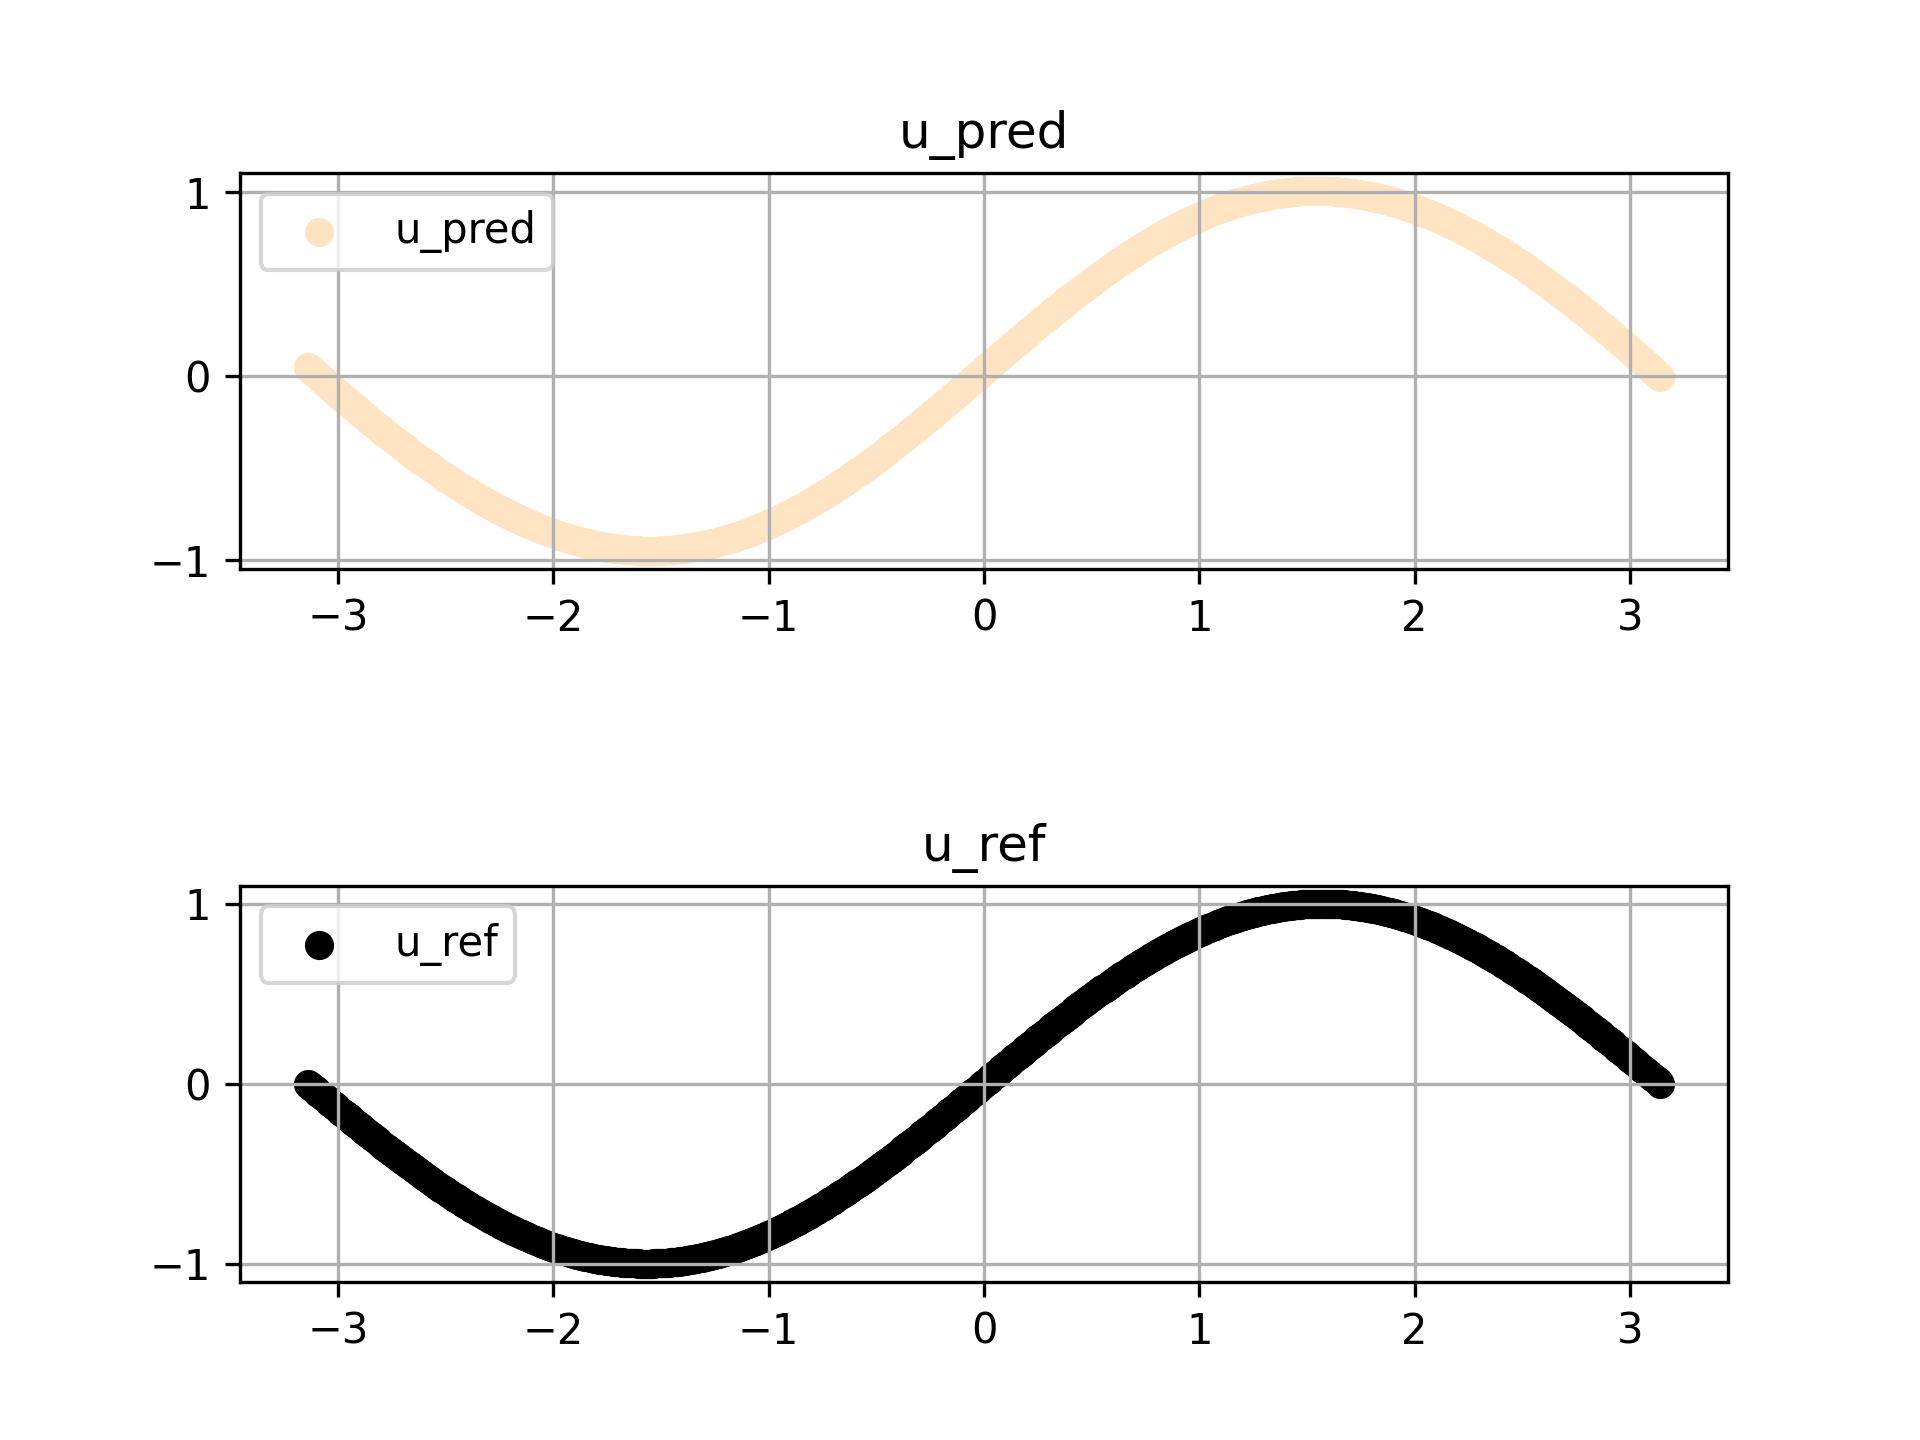
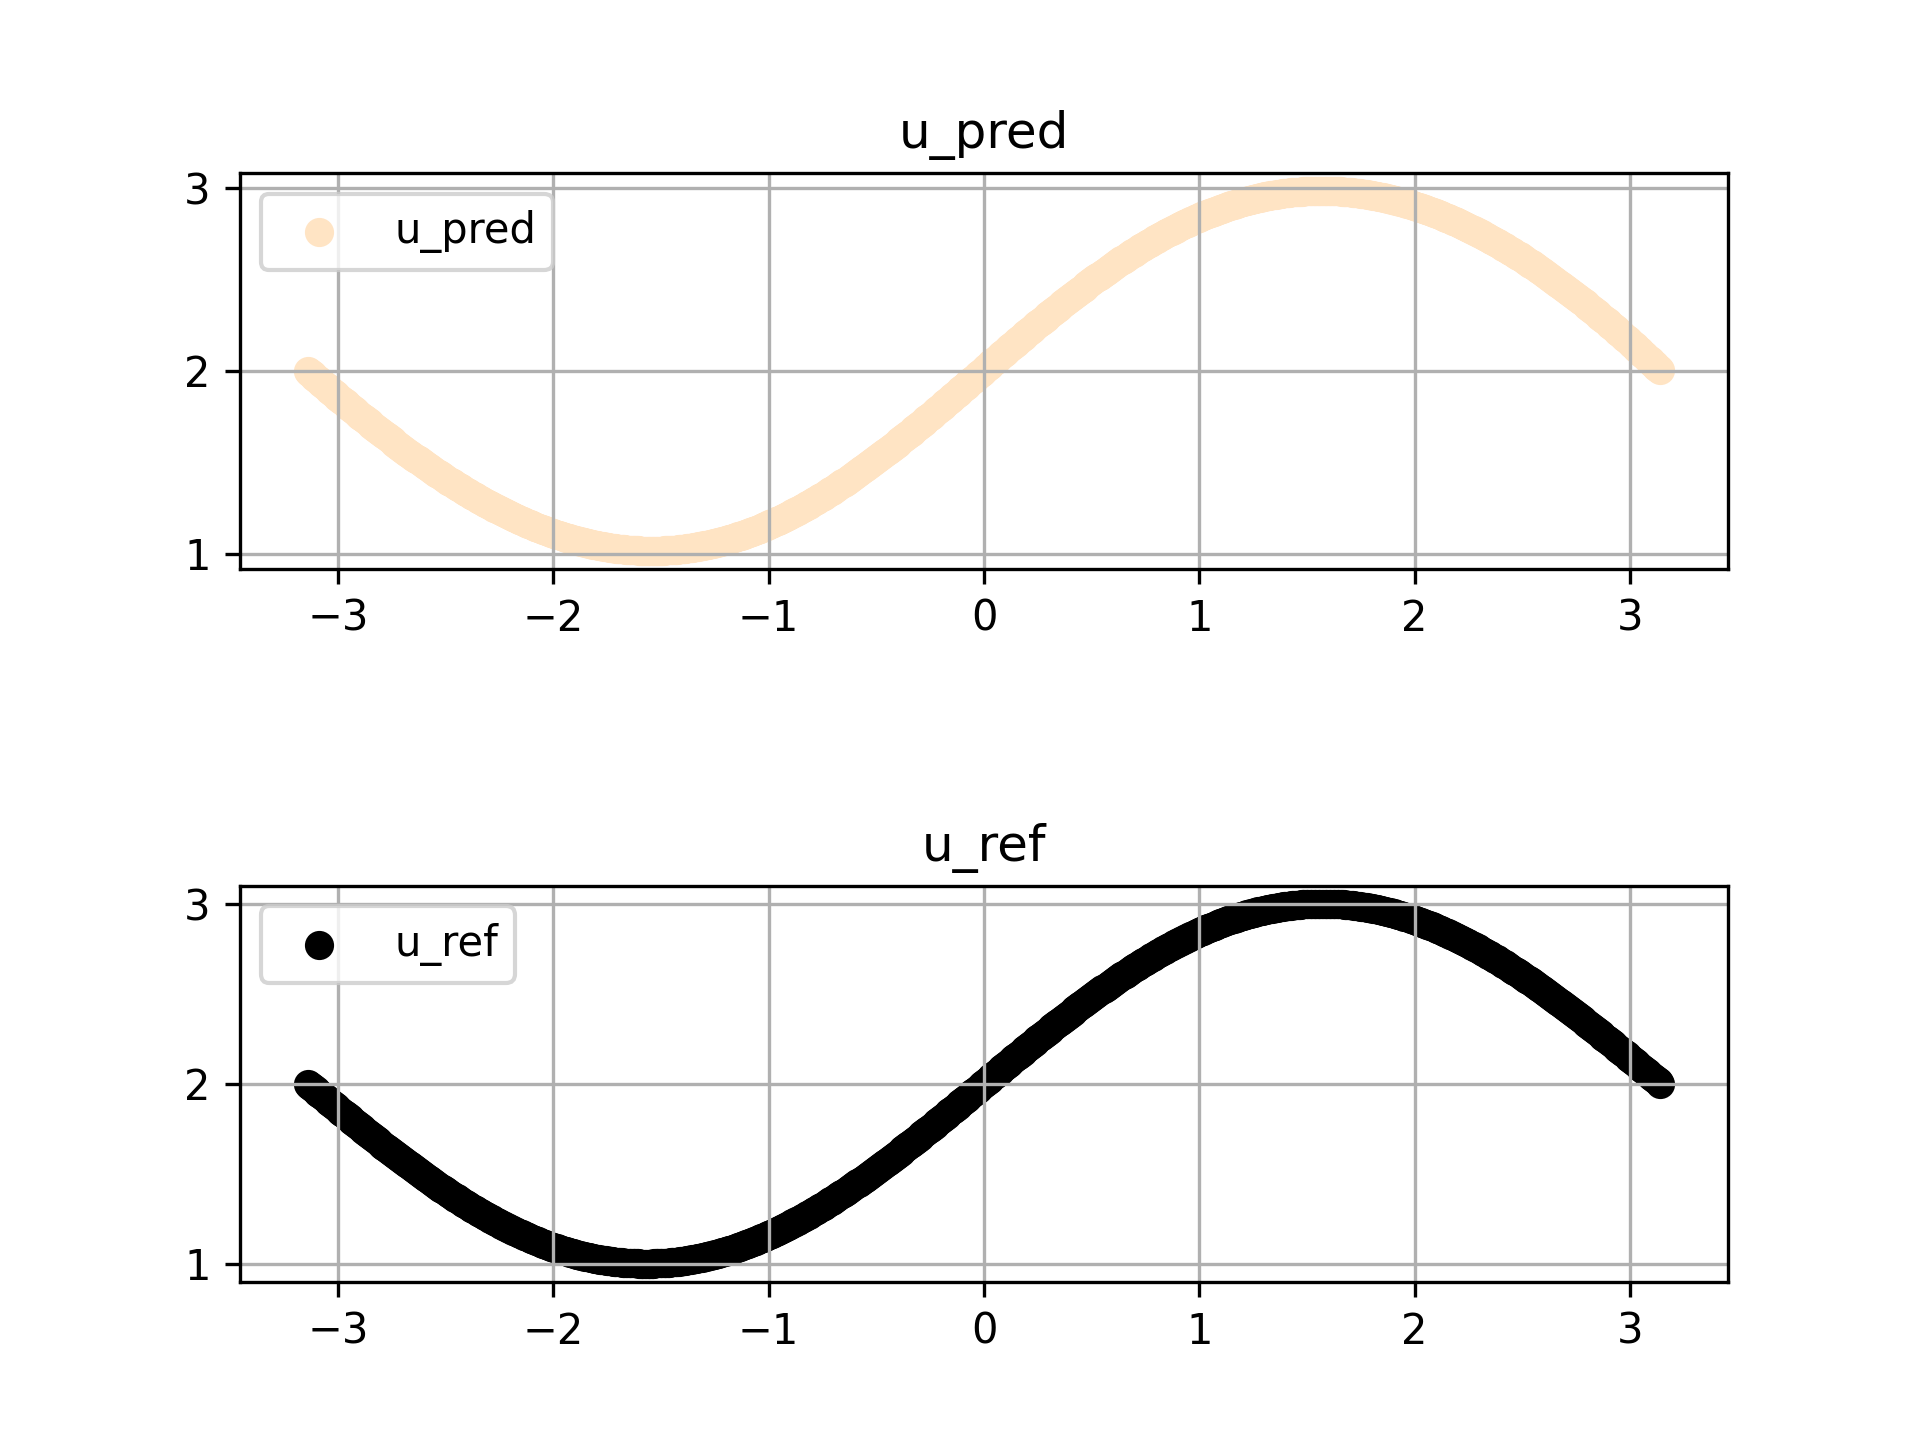
refine quickstart(test=document_fix)

diff --git a/examples/aneurysm/aneurysm.py b/examples/aneurysm/aneurysm.py
@@ -170,6 +170,8 @@ if __name__ == "__main__":
 
     # set training hyper-parameters
     EPOCHS = 1500 if not args.epochs else args.epochs
+
+    # set optimizer
     lr_scheduler = ppsci.optimizer.lr_scheduler.ExponentialDecay(
         EPOCHS,
         ITERS_PER_EPOCH,
@@ -178,8 +180,6 @@ if __name__ == "__main__":
         EPOCHS * ITERS_PER_EPOCH // 100,
         by_epoch=False,
     )()
-
-    # set optimizer
     optimizer = ppsci.optimizer.Adam(lr_scheduler)(model)
 
     # set validator

diff --git a/docs/zh/quickstart.md b/docs/zh/quickstart.md
@@ -99,7 +99,7 @@ constraint = {interior_constraint.name: interior_constraint}
 # set training hyper-parameters
 EPOCHS = 10
 # set optimizer
-optimizer = ppsci.optimizer.Adam(1e-3)((model,))
+optimizer = ppsci.optimizer.Adam(1e-3)(model)
 ```
 
 当训练完成，我们希望在 $[-\pi, \pi]$ 上取 1000 个点进行预测并将结果可视化，以此查看训练完毕的模型是否具备一定的预测能力。
@@ -163,14 +163,111 @@ ppsci INFO: [Visualize][Epoch 0] Finished visualization.
 
 ![u=sin(x) prediction](../images/quickstart/u_pred_case1.png)
 
+场景一的完整代码如下所示
+
+``` py linenums="1" title="quickstart_case1.py"
+import numpy as np
+import paddle
+
+import ppsci
+from ppsci.autodiff import jacobian
+from ppsci.utils import logger
+
+# set random seed for reproducibility
+ppsci.utils.misc.set_random_seed(42)
+
+# set output directory
+OUTPUT_DIR = "./output_quick_start_case1"
+
+# initialize logger
+logger.init_logger("ppsci", f"{OUTPUT_DIR}/train.log", "info")
+
+# set input 1D-geometry([-π, π])
+l_limit, r_limit = -np.pi, np.pi
+x_domain = ppsci.geometry.Interval(l_limit, r_limit)
+geom = {"domain": x_domain}
+
+# set model to 3-layer MLP
+model = ppsci.arch.MLP(("x",), ("u",), 3, 64)
+
+# standard solution of sin(x)
+def sin_compute_func(data: dict):
+    return np.sin(data["x"])
+
+# set constraint on 1D-geometry([-π, π])
+ITERS_PER_EPOCH = 100
+interior_constraint = ppsci.constraint.InteriorConstraint(
+    output_expr={"u": lambda out: out["u"]},
+    label_dict={"u": sin_compute_func},
+    geom=geom["domain"],
+    dataloader_cfg={
+        "dataset": "NamedArrayDataset",
+        "iters_per_epoch": ITERS_PER_EPOCH,
+        "sampler": {
+            "name": "BatchSampler",
+            "shuffle": True,
+        },
+        "batch_size": 32,
+    },
+    loss=ppsci.loss.MSELoss(),
+)
+# wrap constraint(s) into one dict
+constraint = {interior_constraint.name: interior_constraint}
+
+# set training hyper-parameters
+EPOCHS = 10
+# set optimizer
+optimizer = ppsci.optimizer.Adam(1e-3)(model)
+
+# set visualizer
+visualize_input_dict = {"x": paddle.linspace(l_limit, r_limit, 1000).reshape([1000, 1])}
+visualize_input_dict["u_ref"] = paddle.sin(visualize_input_dict["x"]) + 2
+visualizer = {
+    "visualize_u": ppsci.visualize.VisualizerScatter1D(
+        visualize_input_dict,
+        ("x",),
+        {"u_pred": lambda out: out["u"], "u_ref": lambda out: out["u_ref"]},
+        prefix="u=sin(x)",
+    ),
+}
+
+# initialize solver
+solver = ppsci.solver.Solver(
+    model,
+    constraint,
+    OUTPUT_DIR,
+    optimizer,
+    epochs=EPOCHS,
+    iters_per_epoch=ITERS_PER_EPOCH,
+    geom=geom,
+    visualizer=visualizer,
+)
+# train model
+solver.train()
+
+# visualize prediction after finished training
+solver.visualize()
+```
+
 ## 3. 场景二
 
 可以看到场景一的监督训练方式能较好地解决函数拟合问题，但一般情况下我们是无法得知拟合函数本身的解析式的，因此也无法直接构造因变量的监督数据。
 
 虽然无法求出解析式直接构造监督数据，但往往可以利用相关数学知识，推导出目标拟合函数符合的某种数学关系，以训练模型以满足这种数学关系的方式，达到以“间接监督”的方式优化模型的目的。
 
-假设我们不再使用 $u=\sin(x)$ 这一先验公式，因而无法生成标签数据 $u$。因此我们使用 $\dfrac{\partial u} {\partial x}=\cos(x)$ 这一方程，构造数据对 $(x_i, \cos(x_i)), i=1,...,N$。
-这意味着我们仍然能保持模型的输入、输出不变，但优化目标变成了：让 $\dfrac{\partial \hat{u}} {\partial x}$ 尽可能地接近 $\cos(x)$。
+假设我们不再使用 $u=\sin(x)$ 这一先验公式，因而无法生成标签数据 $u$。因此我们使用如下方程组，其含有一个偏微分方程和边界条件
+
+$$
+\begin{cases}
+\begin{aligned}
+    \dfrac{\partial u} {\partial x} &= \cos(x) \\
+    u(-\pi) &= 2
+\end{aligned}
+\end{cases}
+$$
+
+构造数据对 $(x_i, \cos(x_i)), i=1,...,N$。
+这意味着我们仍然能保持模型的输入、输出不变，但优化目标变成了：让 $\dfrac{\partial \hat{u}} {\partial x}$ 尽可能地接近 $\cos(x)$，且 $\hat{u}(-\pi)$ 也要尽可能地接近 $2$。
 
 基于以上理论，我们对场景一的代码进行少量的改写即可得到本场景二的代码。
 
@@ -193,7 +290,7 @@ def cos_compute_func(data: dict):
     return np.cos(data["x"])
 ```
 
-最后将 `interior_constraint` 这一约束条件从约束“模型输出”，改为约束“模型输出对输入的一阶微分”
+接着将 `interior_constraint` 这一约束条件从约束“模型输出”，改为约束“模型输出对输入的一阶微分”
 
 ``` py hl_lines="2 3"
 interior_constraint = ppsci.constraint.InteriorConstraint(
@@ -213,6 +310,39 @@ interior_constraint = ppsci.constraint.InteriorConstraint(
 )
 ```
 
+其次考虑到一般情况下偏微分方程的解会存在待定系数，需通过定解条件（初（边）值条件）来确定，因此需要在 `interior_constraint` 构建代码的后面，额外添加一个边界条件约束，如下所示
+
+``` py
+bc_constraint = ppsci.constraint.BoundaryConstraint(
+    {"u": lambda d: d["u"]},
+    {"u": lambda d: sin_compute_func(d) + 2},
+    geom["domain"],
+    dataloader_cfg={
+        "dataset": "NamedArrayDataset",
+        "iters_per_epoch": ITERS_PER_EPOCH,
+        "sampler": {
+            "name": "BatchSampler",
+            "shuffle": True,
+        },
+        "batch_size": 1,
+    },
+    loss=ppsci.loss.MSELoss(),
+    criteria=lambda x: np.isclose(x, l_limit), # only choose x close to l_limit, i.e. -pi
+    name=
+)
+```
+
+最后将该边界约束添加到 `constraint` 中
+
+``` py hl_lines="4"
+# wrap constraint(s) into one dict
+constraint = {
+    interior_constraint.name: interior_constraint,
+    bc_constraint.name: bc_constraint,
+}
+
+```
+
 修改完毕后执行训练，训练日志如下所示
 
 ``` log
@@ -230,6 +360,115 @@ ppsci INFO: [Visualize][Epoch 0] Finished visualization.
 
 预测结果如下所示
 
-![u=sin(x) prediction](../images/quickstart/u_pred_case2.png)
+![u=sin(x)+2 prediction](../images/quickstart/u_pred_case2.png)
 
-可以发现利用微分关系训练的模型仍然具备良好的预测能力。
+可以发现利用微分关系训练的模型仍然具备良好的预测能力，并且结合定解条件，能学习出同时符合微分方程和定解条件的正确解模型。
+
+场景二的完整代码如下所示
+
+``` py linenums="1" title="quickstart_case2.py"
+import numpy as np
+import paddle
+
+import ppsci
+from ppsci.autodiff import jacobian
+from ppsci.utils import logger
+
+# set random seed for reproducibility
+ppsci.utils.misc.set_random_seed(42)
+
+# set output directory
+OUTPUT_DIR = "./output_quick_start"
+
+# initialize logger
+logger.init_logger("ppsci", f"{OUTPUT_DIR}/train.log", "info")
+
+# set input 1D-geometry([-π, π])
+l_limit, r_limit = -np.pi, np.pi
+x_domain = ppsci.geometry.Interval(l_limit, r_limit)
+geom = {"domain": x_domain}
+
+# set model to 3-layer MLP
+model = ppsci.arch.MLP(("x",), ("u",), 3, 64)
+
+# standard solution of sin(x)
+def sin_compute_func(data: dict):
+    return np.sin(data["x"])
+
+# standard solution of cos(x)
+def cos_compute_func(data: dict):
+    return np.cos(data["x"])
+
+# set constraint on 1D-geometry([-π, π])
+ITERS_PER_EPOCH = 100
+interior_constraint = ppsci.constraint.InteriorConstraint(
+    output_expr={"du_dx": lambda out: jacobian(out["u"], out["x"])},
+    label_dict={"du_dx": cos_compute_func},
+    geom=geom["domain"],
+    dataloader_cfg={
+        "dataset": "NamedArrayDataset",
+        "iters_per_epoch": ITERS_PER_EPOCH,
+        "sampler": {
+            "name": "BatchSampler",
+            "shuffle": True,
+        },
+        "batch_size": 32,
+    },
+    loss=ppsci.loss.MSELoss(),
+)
+bc_constraint = ppsci.constraint.BoundaryConstraint(
+    {"u": lambda d: d["u"]},
+    {"u": lambda d: sin_compute_func(d) + 2},
+    geom["domain"],
+    dataloader_cfg={
+        "dataset": "NamedArrayDataset",
+        "iters_per_epoch": ITERS_PER_EPOCH,
+        "sampler": {
+            "name": "BatchSampler",
+            "shuffle": True,
+        },
+        "batch_size": 1,
+    },
+    loss=ppsci.loss.MSELoss(),
+    criteria=lambda x: np.isclose(x, l_limit),
+)
+# wrap constraint(s) into one dict
+constraint = {
+    interior_constraint.name: interior_constraint,
+    bc_constraint.name: bc_constraint,
+}
+
+# set training hyper-parameters
+EPOCHS = 10
+# set optimizer
+optimizer = ppsci.optimizer.Adam(1e-3)(model)
+
+# set visualizer
+visualize_input_dict = {"x": paddle.linspace(l_limit, r_limit, 1000).reshape([1000, 1])}
+visualize_input_dict["u_ref"] = paddle.sin(visualize_input_dict["x"]) + 2
+visualizer = {
+    "visualize_u": ppsci.visualize.VisualizerScatter1D(
+        visualize_input_dict,
+        ("x",),
+        {"u_pred": lambda out: out["u"], "u_ref": lambda out: out["u_ref"]},
+        prefix="u=sin(x)",
+    ),
+}
+
+# initialize solver
+solver = ppsci.solver.Solver(
+    model,
+    constraint,
+    OUTPUT_DIR,
+    optimizer,
+    epochs=EPOCHS,
+    iters_per_epoch=ITERS_PER_EPOCH,
+    geom=geom,
+    visualizer=visualizer,
+)
+# train model
+solver.train()
+
+# visualize prediction after finished training
+solver.visualize()
+```
